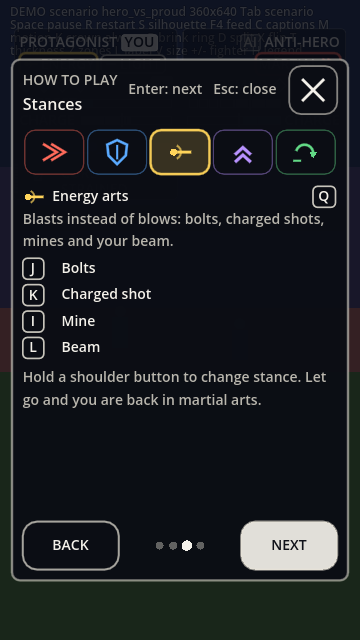
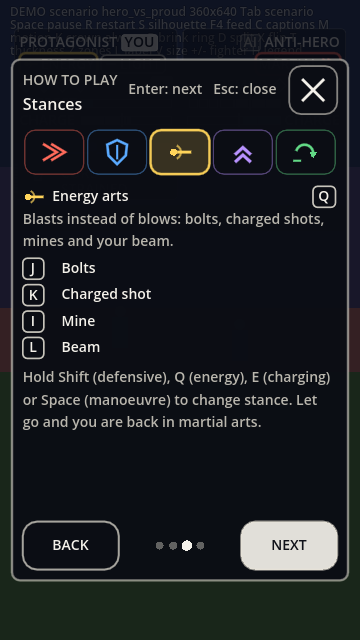
UI: How to play fits on the shared keyboard at the smallest sizes; the stances line names the player's own keys

Changed region(s): [[0.0611, 0.5625, 0.9167, 0.6875]]

diff --git a/docs/ui/hud-spec.md b/docs/ui/hud-spec.md
@@ -962,13 +962,13 @@ Steps C and D of `docs/ui/key-help-plan.md` (the plan: `how-to-play-stances-plan
 
 ![the stances page, 1280x720 web build, the energy stance held](img/howto-stances-web.png) ![the stances page on a 360x640 screen, one stance at a time](img/howto-stances-narrow-web.png)
 
-- **A fourth page, Stances,** between Controls and Reading the fight. **Wide screens:** a table of the five stances across and the four face buttons down, with the player's own glyphs on both axes: each stance's header has its icon, its name and the glyph that holds it in the player's layout (martial arts: "Hold nothing"; LB RB RT LT on Arena, Shift Q E Space on the solo keyboard, the shared halves' own), the rows are the layout's Light, Heavy, Context and Signature glyphs. The stance held now has its column tinted. A **live** stance's cells are its four names; a **not-live** stance's cells are what the buttons really do today (the legend's old words), at normal weight and with no tag: the page never says "soon". Under the table: "Hold a shoulder button to change stance. Let go and you are back in martial arts."
+- **A fourth page, Stances,** between Controls and Reading the fight. **Wide screens:** a table of the five stances across and the four face buttons down, with the player's own glyphs on both axes: each stance's header has its icon, its name and the glyph that holds it in the player's layout (martial arts: "Hold nothing"; LB RB RT LT on Arena, Shift Q E Space on the solo keyboard, the shared halves' own), the rows are the layout's Light, Heavy, Context and Signature glyphs. The stance held now has its column tinted. A **live** stance's cells are its four names; a **not-live** stance's cells are what the buttons really do today (the legend's old words), at normal weight and with no tag: the page never says "soon". Under the table, a line that names the player's own inputs from the layout (`{defensive}`, `{energy}`, `{charging}` and `{manoeuvre}` in the data become the keys or buttons that hold them): "Hold Shift (defensive), Q (energy), E (charging) or Space (manoeuvre) to change stance. Let go and you are back in martial arts." on the solo keyboard, LB RB RT LT on Arena, ";", O, "/" and "." for shared player two; on a touch screen "Use the stance buttons to change stance. Let go and you are back in martial arts."
 - **Narrow screens** (the table's columns would be under a readable width: a phone, the 360 by 640 window): one stance at a time, five tabs along the top (each at least a touch target, the stance icon and, when the tab is wide enough, its name), the page opens on the held stance, Up and Down (or the pad's D-pad up and down, or a tap) change the tab. The selected stance shows its full name, the glyph that holds it, its one-line description **only while it is live** (`_blurb`), and its four rows.
 - **Simple and Simple touch** get one line and no table: "The game picks your stance for you." **Full touch** gets the table with its own button words (LIGHT, HEAVY, CONTEXT, SIGN) and, under it, "Tap a stance button to use it for your next blow, or hold it to stay in the stance" (Controls' arming rule).
 - **The idea page's old four-stance list is gone** (PRESS, GUARD, DODGE, ESCAPE). Its second column is now "Your stance": "Nothing held: your martial arts. Hold a shoulder button to change stance." and "Each stance changes what your four buttons do: see Stances."
 - **The controls page** names a stance's button for its stance once the stance is live (`_howto`: "Energy stance (hold; Settings can make it a toggle)" now, "Defensive stance (hold)", "Charging stance (hold to charge)", "Manoeuvre stance (hold), dodge (tap)" when theirs flip) and keeps the old rows (Guard (hold), Power (hold to charge), Dodge (tap), sprint (hold)) until then.
 - **Remap and Settings.** The Remap rows for the four stance buttons read by the flag: live, the stance's name (`_remap`: "Energy stance (hold)" now, "Defensive stance (hold)", "Charging stance (hold)", "Dodge (tap), manoeuvre stance (hold)") with its help (`_remap_help`); not live, the old words and helps (Guard, Power, Dodge). Settings names no stance beyond "Energy: hold or toggle".
-- **The words are all data** (`stances.json`: `_blurb`, `_howto`, `_remap`, `_remap_help`, the cells, the notes in `howto.json`), drafted by UI for Narrative and Orb to edit. The page's three lines are icon-row items in `howto.json` whose `icon` names the line (`stances_table`, `stances_full`, `stances_simple`), because the howto schema allows any icon name but only two note names; if Tools widens the note names they can become notes.
+- **The words are all data** (`stances.json`: `_blurb`, `_howto`, `_remap`, `_remap_help`, the cells, the notes in `howto.json`), drafted by UI for Narrative and Orb to edit. The page's three lines are icon-row items in `howto.json` whose `icon` names the line (`stances_table`, `stances_table_touch`, `stances_full`, `stances_simple`), because the howto schema allows any icon name but only two note names; if Tools widens the note names they can become notes.
 - **A fix found on the way:** the join prompt ("P2: press any button to join") was drawn over How to play and the pause menu; it is now a layer under them.
 - **Tests (`hud_check`):** the page is the third of four; the table at 1920 by 1080 (20 cells, 4 row heads, held marked) and each header's key on the solo keyboard, on Arena and for shared player two; live and not-live columns (HEAD's flags: energy's four names, the rest the old words; all live; no "soon" anywhere); the narrow tabs at 360 by 640, 390 by 844, 750 by 1334 and 1170 by 2532 (five tabs of at least a touch target, the held tab selected, a chosen tab, the one-line description only while live); Simple, Simple touch and Full touch; the page fitting with every cell inside the body at 15 sizes for six layouts, at HEAD's flags and all live; the controls page's words by flag; the Remap rows by flag, flipped and back; in the HUD, Up, Down and a tap choosing a tab and a desktop window showing the table; every mode draws; the layer order. Stills: the web build in headless Chrome at 1280 by 720 and 360 by 640 (`?scenario=hero_vs_proud&at=0.4&nofeed&howto=2&mask=2`).
-- **Known, not new:** on a shared keyboard the Controls page does not fit at 360 by 640 or at 1560 by 720 and density 2, on HEAD before this page existed too (its extra note); the new page's own fit test leaves those two cases out. Neither is a layout those sizes use.
+- **Fixed afterwards:** the Controls page on a shared keyboard did not fit at 360 by 640 or at 1560 by 720 and density 2 (its extra note; on HEAD before this page too). When the type is already at its smallest and a page still does not fit, the card now lays every page out **tight** (rows and gaps closer together, the stances table's too; `UiHowto.plan` returns `tight`), and nothing changes at any size where the pages already fit. The stances page's fit test no longer skips any layout or size.
